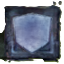
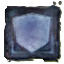
UI調整（剣・盾アイコンの位置調整）

Changed region(s): [[0.0, 0.4688, 0.125, 0.9688], [0.0625, 0.0938, 0.125, 0.1562], [0.125, 0.9688, 0.1875, 1.0]]

diff --git a/js/layout-config.js b/js/layout-config.js
@@ -15,24 +15,25 @@ export const MAP_LAYOUT_CSS_VARS = {
     "--map-point-border-radius": "6px",
     "--map-point-label-font-size": "clamp(1.8rem, 0.75vw, 0.7rem)",
     "--map-point-label-transform-y": "-2px",
-    "--map-shield-left": "82%",
-    "--map-shield-top": "calc(50% + 16px)",
-    "--map-shield-size": "87px",
-    "--map-sword-left": "18%",
-    "--map-sword-top": "calc(50% - 10px)",
-    "--map-sword-size": "18px",
+    "--map-shield-left": "3.32px",
+    "--map-shield-top": "33.78px",
+    "--map-shield-size": "26px",
+    "--map-sword-left": "3.22px",
+    "--map-sword-top": "8.46px",
+    "--map-sword-size": "26px",
     "--map-point-labels-left": "50%",
     "--map-point-labels-top": "50%",
-    "--map-point-labels-width": "49%",
+    "--map-point-labels-width": "100px",
+    "--map-point-labels-height": "50px",
     "--map-point-labels-gap": "2px",
-    "--map-point-band-width": "125%",
-    "--map-point-band-height": "18px",
+    "--map-point-band-width": "100px",
+    "--map-point-band-height": "24px",
     "--map-point-band-radius": "3px",
     "--map-point-select-height": "auto",
     "--map-point-select-min-height": "18px",
     "--map-point-select-line-height": "normal",
     "--map-point-select-padding": "0",
-    "--map-point-select-font-size": "0.55rem",
+    "--map-point-select-font-size": "0.85rem",
     "--map-point-option-font-size": "inherit",
     "--map-point-frame-display": "block",
     "--map-point-sword-display": "block"

diff --git a/style.css b/style.css
@@ -1089,6 +1089,7 @@ button:focus-visible {
   /* grid-template-rows: repeat(2, 18px); */
   gap: var(--map-point-labels-gap);
   width: var(--map-point-labels-width);
+  height: var(--map-point-labels-height);
   backface-visibility: hidden;
   transform: translate(-50%, -50%) translateZ(0);
   transform-origin: center;
